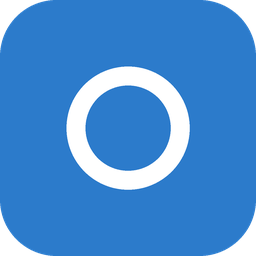
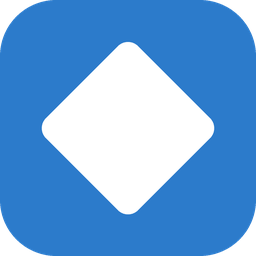
1.0.5：应用图标改为菱形（单一几何，去番茄/时钟联想）

Changed region(s): [[0.1562, 0.1562, 0.8438, 0.8438], [0.3125, 0.3125, 0.6875, 0.6875]]

diff --git a/README.en.md b/README.en.md
@@ -37,7 +37,7 @@ Full introduction (why it exists, what it does, how the work was split between t
 
 ## Install
 
-**Don't want to install Node.js or build it yourself?** Download `TomatoClock-Setup-1.0.4.exe` from [Releases](https://github.com/SportsHappyDream/tomato-clock/releases) and run it — it installs per user and needs no administrator rights.
+**Don't want to install Node.js or build it yourself?** Download `TomatoClock-Setup-1.0.5.exe` from [Releases](https://github.com/SportsHappyDream/tomato-clock/releases) and run it — it installs per user and needs no administrator rights.
 
 The build is not code-signed, so Windows SmartScreen may warn about an unknown publisher — choose **More info → Run anyway**.
 

diff --git a/README.md b/README.md
@@ -37,7 +37,7 @@
 
 ## 安装
 
-**不想装 Node.js / 不想自己构建**：直接从 [Releases](https://github.com/SportsHappyDream/tomato-clock/releases) 下载 `TomatoClock-Setup-1.0.4.exe`，双击安装即可（按用户安装，不需要管理员权限）。
+**不想装 Node.js / 不想自己构建**：直接从 [Releases](https://github.com/SportsHappyDream/tomato-clock/releases) 下载 `TomatoClock-Setup-1.0.5.exe`，双击安装即可（按用户安装，不需要管理员权限）。
 
 安装包未做代码签名，Windows SmartScreen 可能提示“未知发布者”：点 **更多信息 → 仍要运行** 即可。
 
